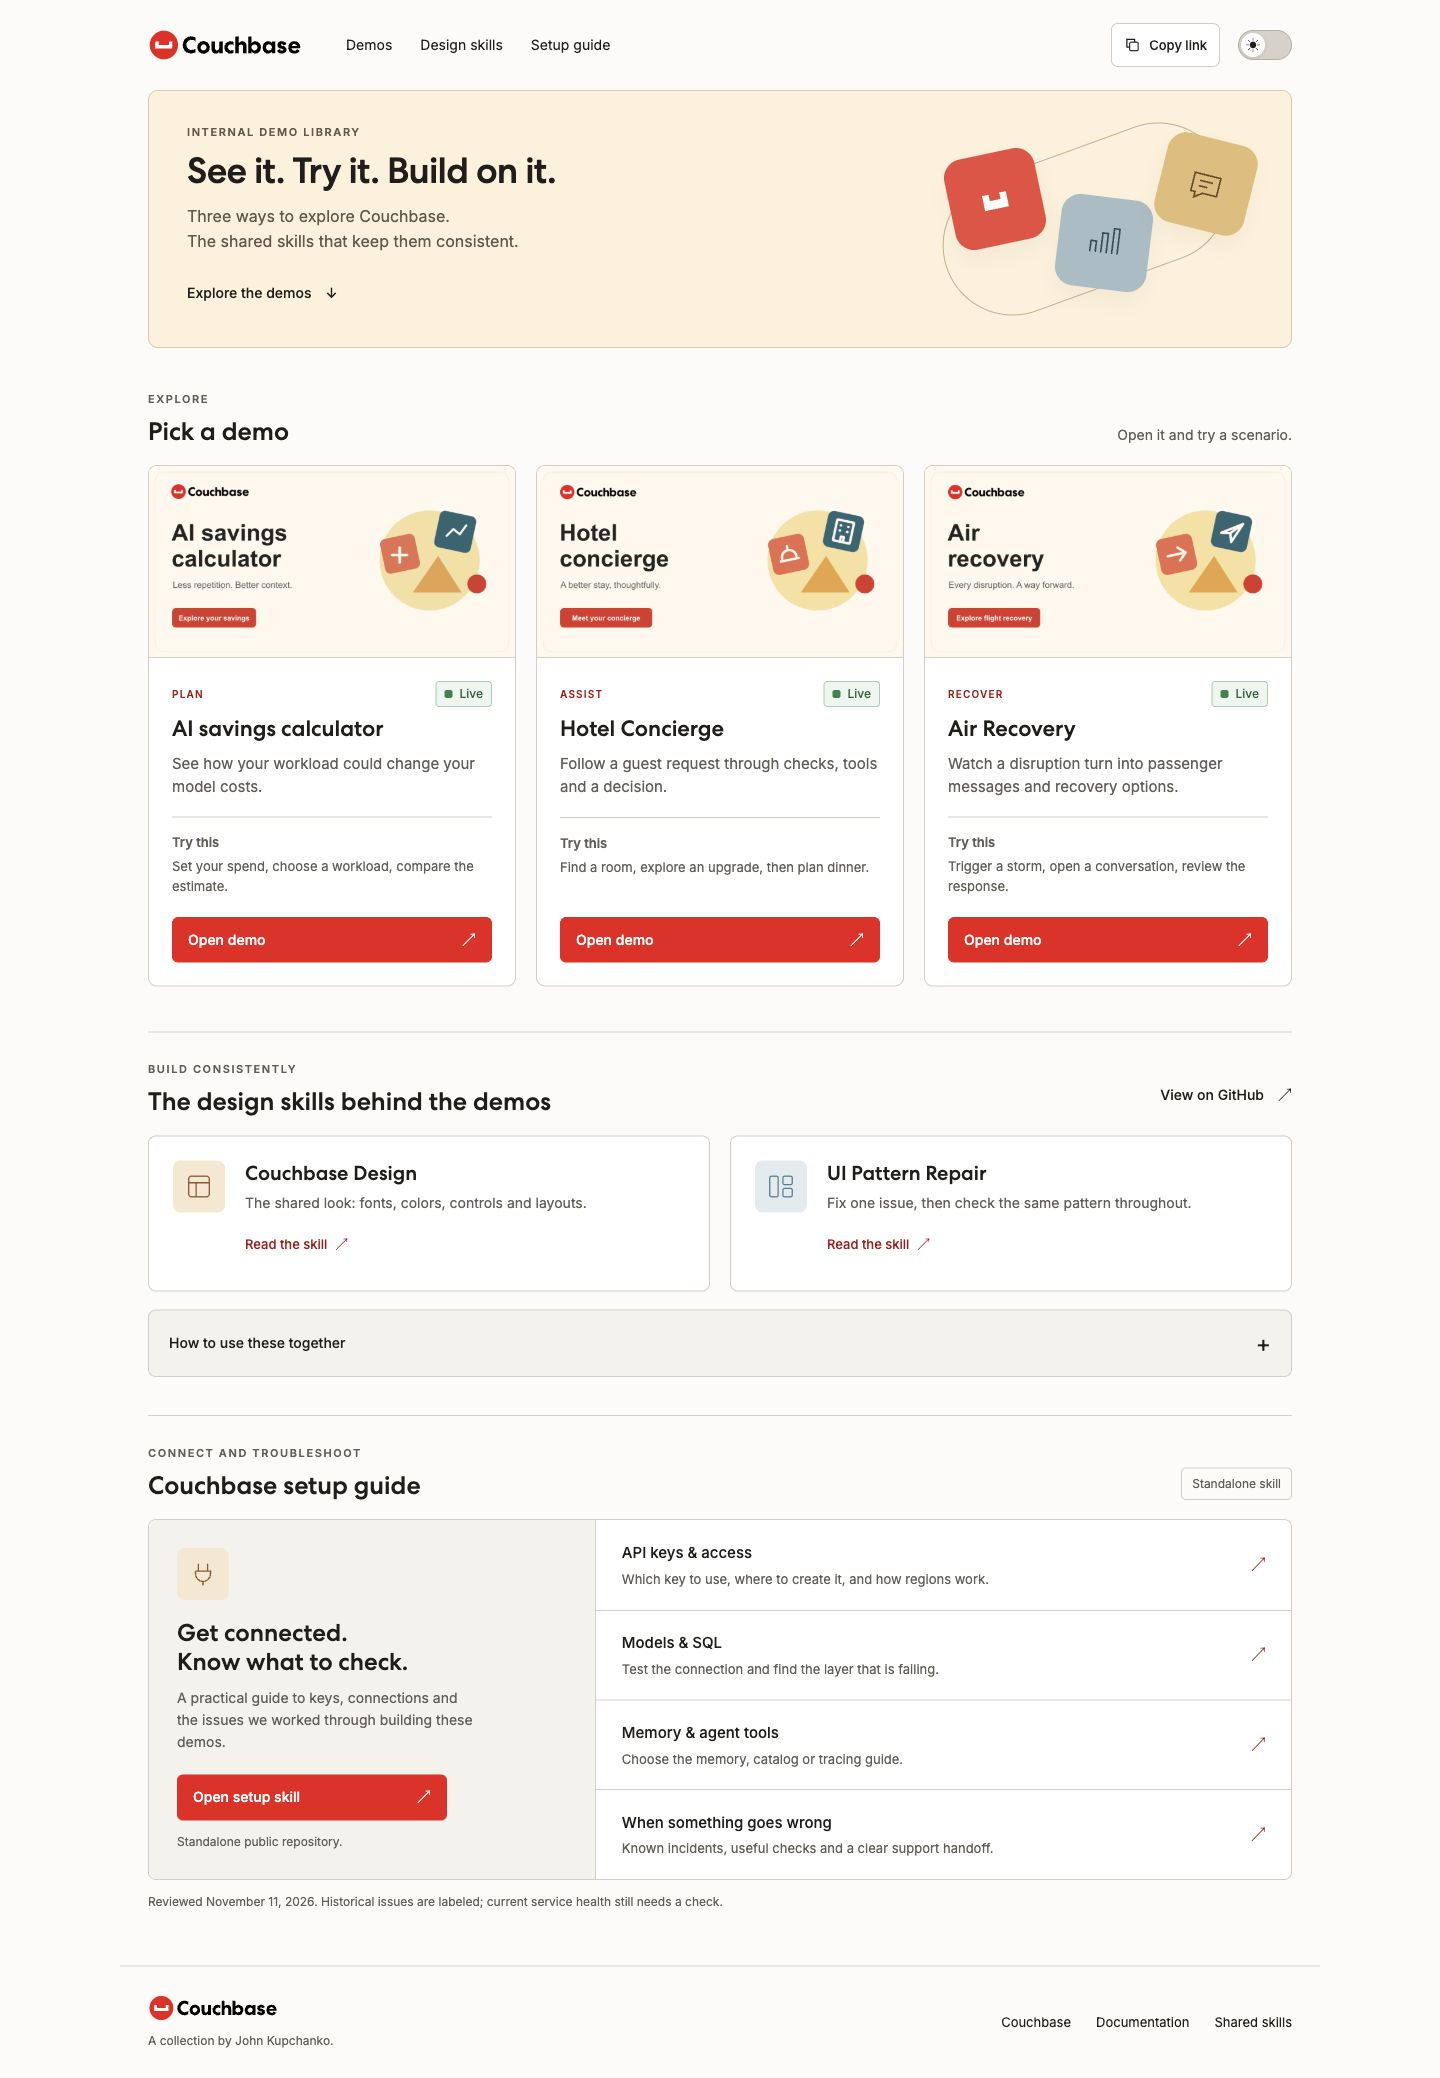
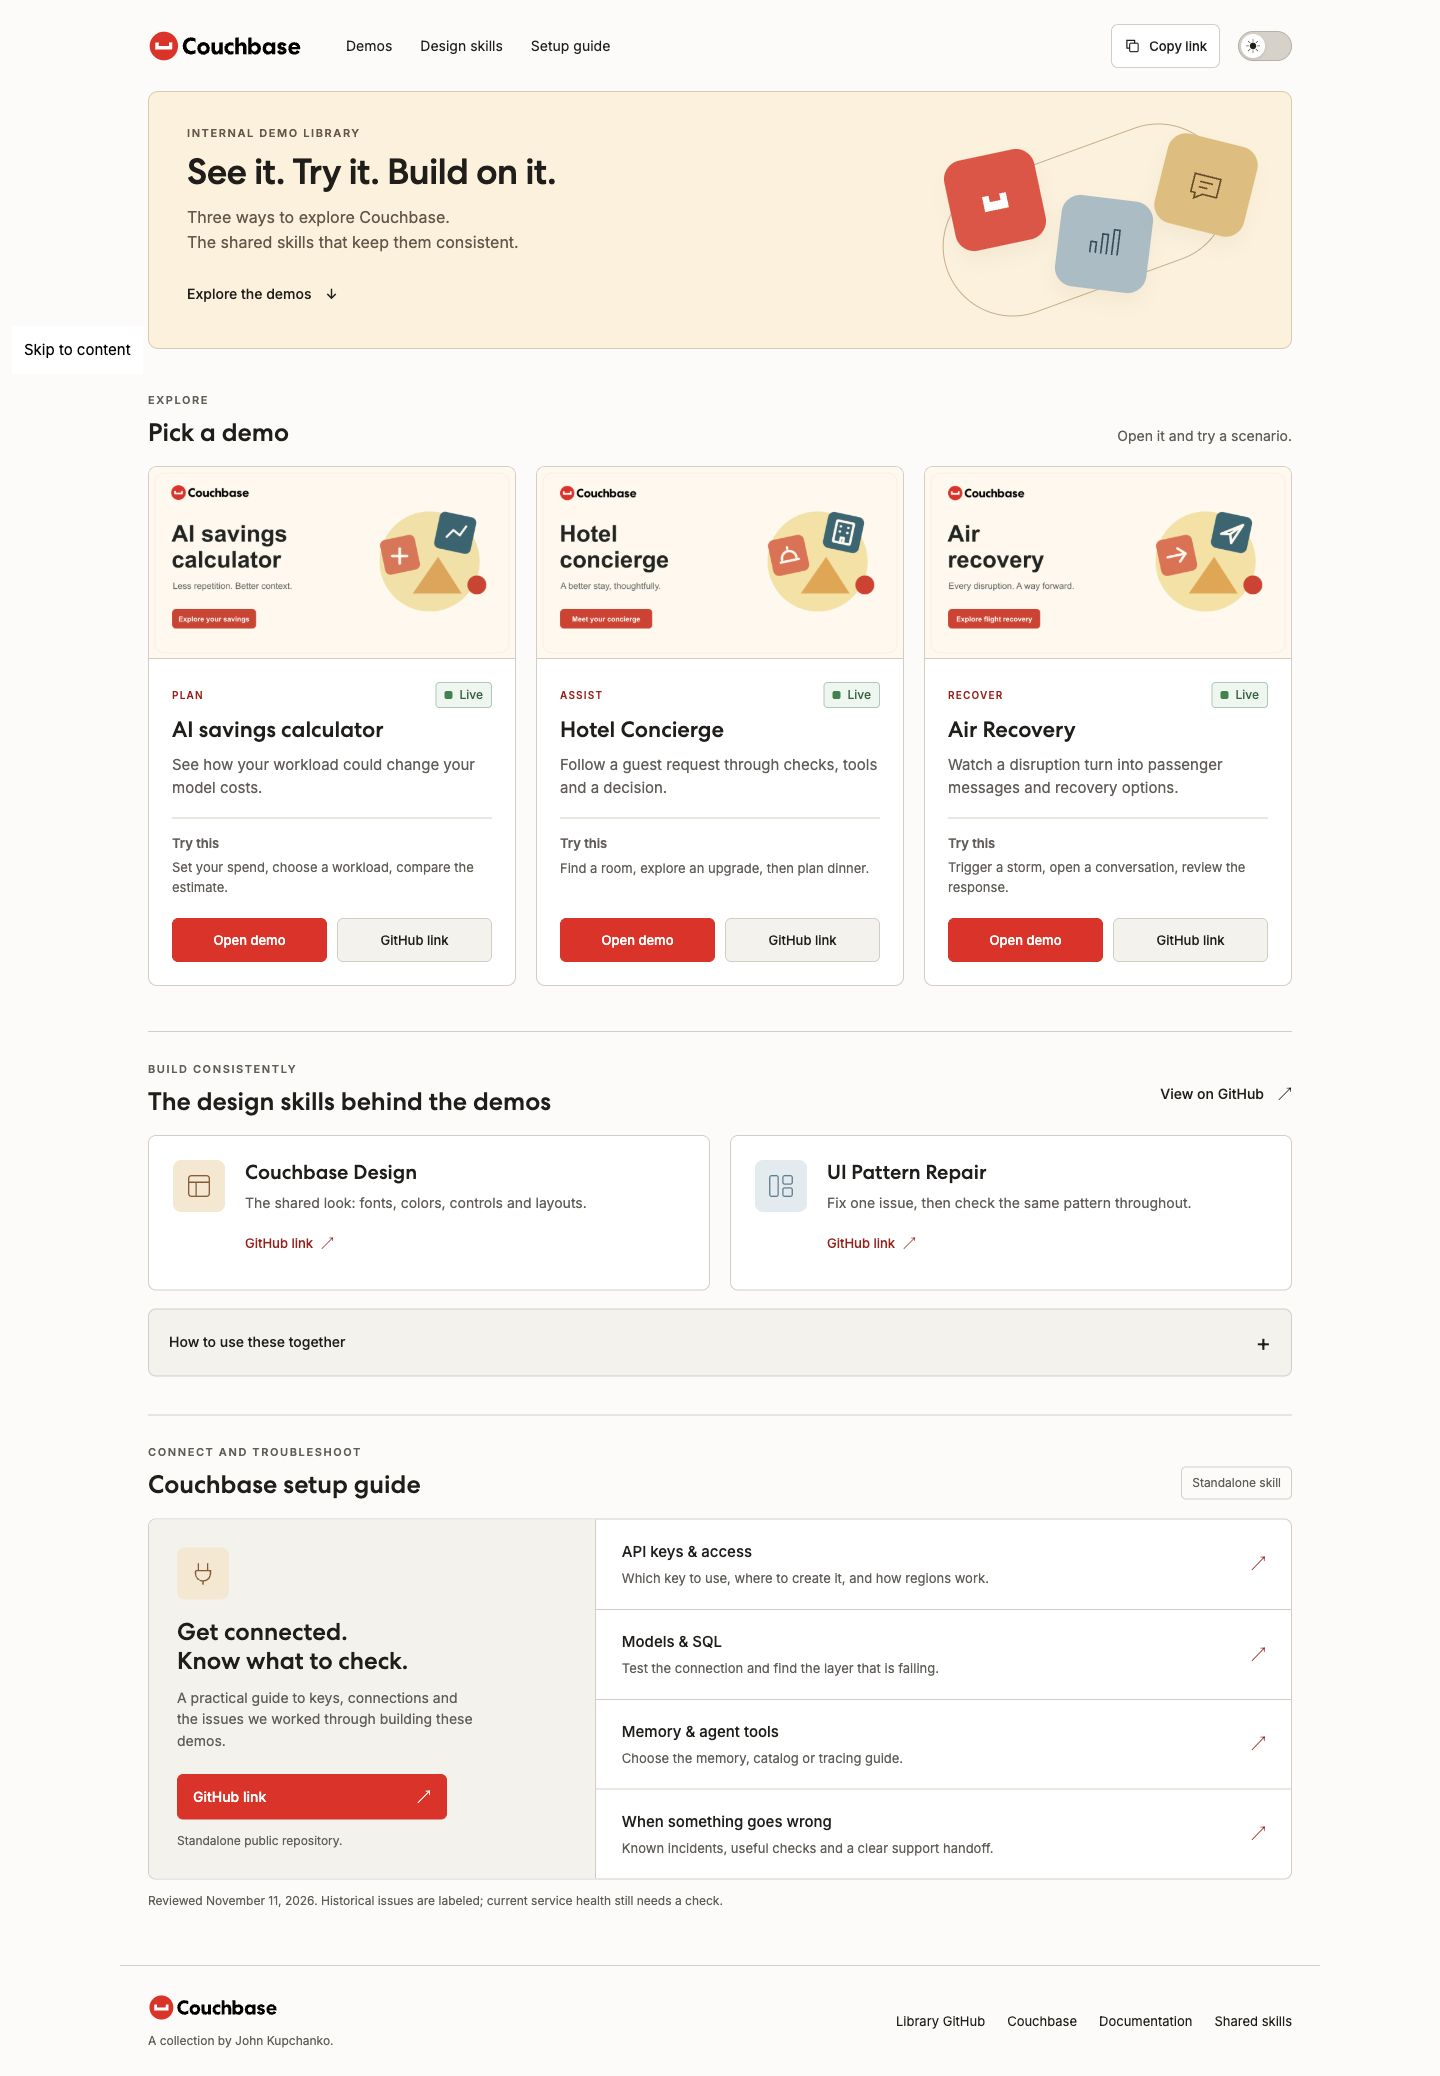
Pair demo and GitHub actions with equal sizing

diff --git a/dist/index.html b/dist/index.html
@@ -17,9 +17,9 @@
 <a class="skip" href="#main">Skip to content</a><header class="header"><a href="https://www.couchbase.com/" aria-label="Couchbase website"><img class="logo" src="assets/couchbase-logo.svg" alt="Couchbase" width="154" height="32"></a><nav aria-label="Page sections"><a href="#demos">Demos</a><a href="#skills">Design skills</a><a href="#setup">Setup guide</a></nav><div class="header-actions"><button id="share" class="share" aria-label="Copy page link"><svg viewBox="0 0 24 24" aria-hidden="true"><rect x="8" y="8" width="12" height="12" rx="2"/><path d="M15 8V4H4v11h4"/></svg><span>Copy link</span></button><button id="theme" class="switch" role="switch" aria-checked="false" aria-label="Dark mode"><span class="thumb">☀</span></button></div></header>
 <main id="main"><section class="hero"><div><p class="eyebrow">INTERNAL DEMO LIBRARY</p><h1>See it. Try it. Build on it.</h1><p>Three ways to explore Couchbase.<br>The shared skills that keep them consistent.</p><a href="#demos" class="text-link">Explore the demos <span aria-hidden="true">↓</span></a></div><div class="hero-art" aria-hidden="true"><div class="art-track"></div><div class="tile tile-red"><svg viewBox="0 0 40 40"><path d="M9 23v-8h6v6h10v-6h6v14H9z"/></svg></div><div class="tile tile-blue"><svg viewBox="0 0 40 40"><path d="M8 29V19h5v10m5 0V11h5v18m5 0V6h5v23"/></svg></div><div class="tile tile-gold"><svg viewBox="0 0 40 40"><path d="M8 12h24v17H19l-7 5v-5H8z"/><path d="M14 18h12m-12 5h8"/></svg></div></div></section>
 <section id="demos" class="section"><div class="section-heading"><div><p class="eyebrow">EXPLORE</p><h2>Pick a demo</h2></div><p>Open it and try a scenario.</p></div><div class="demo-grid">
-<article class="demo-card"><a class="visual savings" href="https://couchbase-ai-savings.vercel.app/" target="_blank" rel="noopener" aria-label="Open AI savings calculator"><img src="assets/savings-social-preview-v3.png" alt="" width="1200" height="630" loading="lazy"></a><div class="card-content"><div class="card-meta"><span class="category">PLAN</span><span class="live-label"><span class="live-square" aria-hidden="true"></span>Live</span></div><h3>AI savings calculator</h3><p>See how your workload could change your model costs.</p><div class="try"><span>Try this</span>Set your spend, choose a workload, compare the estimate.</div><a class="button" href="https://couchbase-ai-savings.vercel.app/" target="_blank" rel="noopener">Open demo <span aria-hidden="true">↗</span></a><a class="repo-link" href="https://github.com/john-couchbase/couchbase-ai-savings" target="_blank" rel="noopener">GitHub link <span aria-hidden="true">↗</span></a></div></article>
-<article class="demo-card"><a class="visual hotel" href="https://couchbase-hotel-concierge.vercel.app/" target="_blank" rel="noopener" aria-label="Open Hotel Concierge"><img src="assets/hotel-social-preview-v3.png" alt="" width="1200" height="630" loading="lazy"></a><div class="card-content"><div class="card-meta"><span class="category">ASSIST</span><span class="live-label"><span class="live-square" aria-hidden="true"></span>Live</span></div><h3>Hotel Concierge</h3><p>Follow a guest request through checks, tools and a decision.</p><div class="try"><span>Try this</span>Find a room, explore an upgrade, then plan dinner.</div><a class="button" href="https://couchbase-hotel-concierge.vercel.app/" target="_blank" rel="noopener">Open demo <span aria-hidden="true">↗</span></a><a class="repo-link" href="https://github.com/john-couchbase/couchbase-hotel-concierge/tree/main/demos/harborline" target="_blank" rel="noopener">GitHub link <span aria-hidden="true">↗</span></a></div></article>
-<article class="demo-card"><a class="visual air" href="https://couchbase-air-simulation.vercel.app/" target="_blank" rel="noopener" aria-label="Open Air Recovery"><img src="assets/air-social-preview-v3.png" alt="" width="1200" height="630" loading="lazy"></a><div class="card-content"><div class="card-meta"><span class="category">RECOVER</span><span class="live-label"><span class="live-square" aria-hidden="true"></span>Live</span></div><h3>Air Recovery</h3><p>Watch a disruption turn into passenger messages and recovery options.</p><div class="try"><span>Try this</span>Trigger a storm, open a conversation, review the response.</div><a class="button" href="https://couchbase-air-simulation.vercel.app/" target="_blank" rel="noopener">Open demo <span aria-hidden="true">↗</span></a><a class="repo-link" href="https://github.com/john-couchbase/couchbase-air-demo" target="_blank" rel="noopener">GitHub link <span aria-hidden="true">↗</span></a></div></article>
+<article class="demo-card"><a class="visual savings" href="https://couchbase-ai-savings.vercel.app/" target="_blank" rel="noopener" aria-label="Open AI savings calculator"><img src="assets/savings-social-preview-v3.png" alt="" width="1200" height="630" loading="lazy"></a><div class="card-content"><div class="card-meta"><span class="category">PLAN</span><span class="live-label"><span class="live-square" aria-hidden="true"></span>Live</span></div><h3>AI savings calculator</h3><p>See how your workload could change your model costs.</p><div class="try"><span>Try this</span>Set your spend, choose a workload, compare the estimate.</div><div class="demo-actions"><a class="button" href="https://couchbase-ai-savings.vercel.app/" target="_blank" rel="noopener">Open demo <span aria-hidden="true">↗</span></a><a class="repo-link" href="https://github.com/john-couchbase/couchbase-ai-savings" target="_blank" rel="noopener">GitHub link <span aria-hidden="true">↗</span></a></div></div></article>
+<article class="demo-card"><a class="visual hotel" href="https://couchbase-hotel-concierge.vercel.app/" target="_blank" rel="noopener" aria-label="Open Hotel Concierge"><img src="assets/hotel-social-preview-v3.png" alt="" width="1200" height="630" loading="lazy"></a><div class="card-content"><div class="card-meta"><span class="category">ASSIST</span><span class="live-label"><span class="live-square" aria-hidden="true"></span>Live</span></div><h3>Hotel Concierge</h3><p>Follow a guest request through checks, tools and a decision.</p><div class="try"><span>Try this</span>Find a room, explore an upgrade, then plan dinner.</div><div class="demo-actions"><a class="button" href="https://couchbase-hotel-concierge.vercel.app/" target="_blank" rel="noopener">Open demo <span aria-hidden="true">↗</span></a><a class="repo-link" href="https://github.com/john-couchbase/couchbase-hotel-concierge/tree/main/demos/harborline" target="_blank" rel="noopener">GitHub link <span aria-hidden="true">↗</span></a></div></div></article>
+<article class="demo-card"><a class="visual air" href="https://couchbase-air-simulation.vercel.app/" target="_blank" rel="noopener" aria-label="Open Air Recovery"><img src="assets/air-social-preview-v3.png" alt="" width="1200" height="630" loading="lazy"></a><div class="card-content"><div class="card-meta"><span class="category">RECOVER</span><span class="live-label"><span class="live-square" aria-hidden="true"></span>Live</span></div><h3>Air Recovery</h3><p>Watch a disruption turn into passenger messages and recovery options.</p><div class="try"><span>Try this</span>Trigger a storm, open a conversation, review the response.</div><div class="demo-actions"><a class="button" href="https://couchbase-air-simulation.vercel.app/" target="_blank" rel="noopener">Open demo <span aria-hidden="true">↗</span></a><a class="repo-link" href="https://github.com/john-couchbase/couchbase-air-demo" target="_blank" rel="noopener">GitHub link <span aria-hidden="true">↗</span></a></div></div></article>
 </div></section>
 <section id="skills" class="section skills-section"><div class="section-heading"><div><p class="eyebrow">BUILD CONSISTENTLY</p><h2>The design skills behind the demos</h2></div><a class="text-link" href="https://github.com/john-couchbase/agent-skills" target="_blank" rel="noopener">View on GitHub <span aria-hidden="true">↗</span></a></div><div class="skills-grid"><article class="skill-card"><div class="skill-icon" aria-hidden="true"><svg viewBox="0 0 32 32"><rect x="5" y="5" width="22" height="22" rx="3"/><path d="M5 12h22M13 12v15"/></svg></div><div><h3>Couchbase Design</h3><p>The shared look: fonts, colors, controls and layouts.</p><a href="https://github.com/john-couchbase/agent-skills/blob/main/couchbase-design/SKILL.md" target="_blank" rel="noopener">GitHub link <span aria-hidden="true">↗</span></a></div></article><article class="skill-card"><div class="skill-icon blue" aria-hidden="true"><svg viewBox="0 0 32 32"><rect x="4" y="5" width="9" height="22" rx="2"/><rect x="18" y="5" width="10" height="9" rx="2"/><rect x="18" y="18" width="10" height="9" rx="2"/></svg></div><div><h3>UI Pattern Repair</h3><p>Fix one issue, then check the same pattern throughout.</p><a href="https://github.com/john-couchbase/agent-skills/blob/main/ui-pattern-repair/SKILL.md" target="_blank" rel="noopener">GitHub link <span aria-hidden="true">↗</span></a></div></article></div><details><summary>How to use these together<span class="indicator" aria-hidden="true"></span></summary><div class="details-body"><p>Install both in Codex or Claude Code. Design sets the style; Pattern Repair checks matching components, screen sizes and live states.</p><div class="prompt"><p id="prompt-text">Use couchbase-design and ui-pattern-repair. Keep our approved styling, check matching components, and verify phone, tablet and desktop layouts.</p><button id="copy-prompt" class="share">Copy prompt</button></div><a href="https://github.com/john-couchbase/agent-skills#install-in-codex-or-claude-code" target="_blank" rel="noopener">Installation guide ↗</a></div></details></section>
 <section id="setup" class="section setup-section"><div class="section-heading"><div><p class="eyebrow">CONNECT AND TROUBLESHOOT</p><h2>Couchbase setup guide</h2></div><span class="setup-label">Standalone skill</span></div><div class="setup-card"><div class="setup-intro"><div class="skill-icon" aria-hidden="true"><svg viewBox="0 0 32 32"><path d="M11 5v8m10-8v8M8 13h16v3a8 8 0 0 1-8 8v4m-8-15v3a8 8 0 0 0 8 8"/></svg></div><h3>Get connected.<br> Know what to check.</h3><p>A practical guide to keys, connections and the issues we worked through building these demos.</p><a class="button" href="https://github.com/john-couchbase/couchbase-aidp-setup" target="_blank" rel="noopener">GitHub link <span aria-hidden="true">↗</span></a><span class="access-note">Standalone public repository.</span></div><div class="setup-topics"><a href="https://github.com/john-couchbase/couchbase-aidp-setup/blob/main/couchbase-aidp-setup/references/keys-and-access.md" target="_blank" rel="noopener"><strong>API keys &amp; access</strong><span>Which key to use, where to create it, and how regions work.</span><span class="topic-link" aria-hidden="true">↗</span></a><a href="https://github.com/john-couchbase/couchbase-aidp-setup/blob/main/couchbase-aidp-setup/references/connection-checks.md" target="_blank" rel="noopener"><strong>Models &amp; SQL</strong><span>Test the connection and find the layer that is failing.</span><span class="topic-link" aria-hidden="true">↗</span></a><a href="https://github.com/john-couchbase/couchbase-aidp-setup/blob/main/couchbase-aidp-setup/SKILL.md" target="_blank" rel="noopener"><strong>Memory &amp; agent tools</strong><span>Choose the memory, catalog or tracing guide.</span><span class="topic-link" aria-hidden="true">↗</span></a><a href="https://github.com/john-couchbase/couchbase-aidp-setup/blob/main/couchbase-aidp-setup/references/incident-lessons.md" target="_blank" rel="noopener"><strong>When something goes wrong</strong><span>Known incidents, useful checks and a clear support handoff.</span><span class="topic-link" aria-hidden="true">↗</span></a></div></div><p class="access-note">Reviewed November 11, 2026. Historical issues are labeled; current service health still needs a check.</p></section></main><footer><div><img class="logo" src="assets/couchbase-logo.svg" alt="Couchbase" width="130" height="27"><p>A collection by John Kupchanko.</p></div><nav aria-label="Resources"><a href="https://github.com/john-couchbase/couchbase-demo-library" target="_blank" rel="noopener">Library GitHub</a><a href="https://www.couchbase.com/" target="_blank" rel="noopener">Couchbase</a><a href="https://docs.couchbase.com/ai/" target="_blank" rel="noopener">Documentation</a><a href="https://github.com/john-couchbase/agent-skills" target="_blank" rel="noopener">Shared skills</a></nav></footer><div id="toast" role="status" aria-live="polite"></div><script src="app.js"></script></body></html>

diff --git a/dist/style.css b/dist/style.css
@@ -18,3 +18,6 @@
 .live-label{padding:3px 8px;border:1px solid #a9c9b4;border-radius:4px;background:#edf6ef;color:#28613c;line-height:18px}.dark .live-label{border-color:#426b50;background:#23372a;color:#b4e3c2}
 
 .repo-link{display:flex;align-items:center;justify-content:space-between;min-height:44px;margin-top:8px;font-size:13px;font-weight:500;color:var(--link);padding-inline:2px}.repo-link:hover{text-decoration:underline}footer nav{flex-wrap:wrap;gap:12px 22px}
+
+/* Equal paired actions: demo first, source second. */
+.demo-actions{display:grid;grid-template-columns:minmax(0,1fr) minmax(0,1fr);gap:10px;margin-top:auto}.demo-actions .button,.demo-actions .repo-link{min-height:44px;display:flex;align-items:center;justify-content:center;gap:8px;margin:0;padding:10px 8px;border-radius:6px;font-size:13px;font-weight:500;line-height:20px;white-space:nowrap}.demo-actions .repo-link{border:1px solid var(--line);background:var(--subtle);color:inherit}.demo-actions .repo-link:hover{background:var(--surface);border-color:var(--muted);text-decoration:none}.demo-actions a span{display:none}
